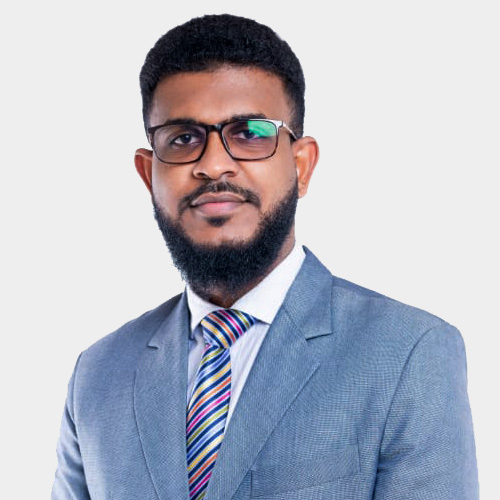
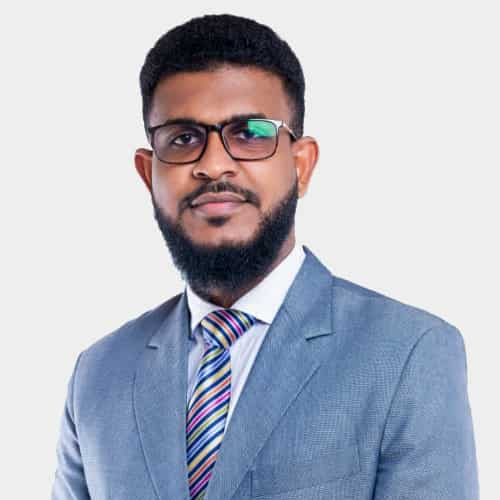
update home:reduce-image-size

diff --git a/src/views/Home.vue b/src/views/Home.vue
@@ -85,17 +85,17 @@
           </div>
           <div class="overview-images">
             <div class="col one">
-              <img src="images/stella.png" alt="" />
-              <img src="images/Susan-Mwango.jpg" alt="" />
+              <img src="images/stella.jpg" alt="" loading="lazy"/>
+              <img src="images/Susan-Mwango.jpg" alt="" loading="lazy"/>
             </div>
             <div class="col two">
-              <img src="images/brian.png" alt="" />
-              <img src="images/Mahmoud-Shalima.jpg" alt="" />
+              <img src="images/brian.jpg" alt="" />
+              <img src="images/Mahmoud-Shalima.jpg" alt="" loading="lazy" />
             </div>
           </div>
         </div>
       </section>
-      <section class="offers">
+      <!-- <section class="offers">
         <div class="offers-container container">
           <div class="offer-head">
             <h1>Advocate Signup Process</h1>
@@ -221,7 +221,7 @@
             </div>
           </div>
         </div>
-      </section>
+      </section> -->
       <section class="research-content" id="courts">
         <div class="research-container container">
           <div class="research-item">
@@ -478,7 +478,7 @@ section.banner {
   background: #e6353b;
   border-radius: 5px;
   margin: auto;
-  font-size: 24px;
+  font-size: 18px;
   color: #ffffff;
 }
 .banner-text .btn-secondary {
@@ -490,7 +490,7 @@ section.banner {
   background: #000000;
   border-radius: 5px;
   margin: auto;
-  font-size: 24px;
+  font-size: 18px;
   color: #ffffff;
 }
 
@@ -898,7 +898,7 @@ section.sponsors {
   font-family: "Montserrat";
   font-style: normal;
   font-weight: 700;
-  font-size: 24px;
+  font-size: 18px;
   line-height: 36px;
   text-align: center;
   color: #1c1b1f;
@@ -910,7 +910,7 @@ section.sponsors {
   font-style: normal;
   font-weight: 400;
   font-size: 16px;
-  line-height: 24px;
+  line-height: 18px;
   text-align: center;
   color: #1c1b1f;
   margin: 10px auto;
@@ -988,7 +988,7 @@ section.sponsors {
   font-family: "Montserrat";
   font-style: normal;
   font-weight: 700;
-  font-size: 24px;
+  font-size: 18px;
   line-height: 36px;
   color: #1c1b1f;
   margin: 10px 0px;
@@ -999,7 +999,7 @@ section.sponsors {
   font-style: normal;
   font-weight: 400;
   font-size: 16px;
-  line-height: 24px;
+  line-height: 18px;
   color: #1c1b1f;
   margin: 10px 0px;
 }
@@ -1067,7 +1067,7 @@ section.sponsors {
   font-family: "Montserrat";
   font-style: normal;
   font-weight: 700;
-  font-size: 24px;
+  font-size: 18px;
   line-height: 36px;
   color: #1c1b1f;
   margin: 10px 0px;
@@ -1150,7 +1150,7 @@ section.sponsors {
   font-family: "Montserrat";
   font-style: normal;
   font-weight: 600;
-  font-size: 24px;
+  font-size: 18px;
   line-height: 150%;
   color: #000000;
 }
@@ -1252,7 +1252,7 @@ section.single-research {
   font-family: "Montserrat";
   font-style: normal;
   font-weight: 700;
-  font-size: 24px;
+  font-size: 18px;
   line-height: 36px;
   color: #fcfcfc;
 }
@@ -1457,7 +1457,7 @@ section.filter {
   font-family: "Montserrat";
   font-style: normal;
   font-weight: 600;
-  font-size: 24px;
+  font-size: 18px;
   line-height: 29px;
   color: #1c1b1f;
 }
@@ -1552,7 +1552,7 @@ section.filter {
   font-family: "Montserrat";
   font-style: normal;
   font-weight: 700;
-  font-size: 24px;
+  font-size: 18px;
   line-height: 36px;
   color: #25518c;
 }
@@ -1753,7 +1753,7 @@ section.filter {
     font-family: "Montserrat";
     font-style: normal;
     font-weight: 700;
-    font-size: 24px;
+    font-size: 18px;
     line-height: 36px;
     color: #1c1b1f;
     margin: 10px 0px;
@@ -1798,7 +1798,7 @@ section.filter {
     font-family: "Montserrat";
     font-style: normal;
     font-weight: 700;
-    font-size: 24px;
+    font-size: 18px;
     line-height: 28px;
     color: #00000a;
     margin-top: 40px;
@@ -1913,7 +1913,7 @@ section.filter {
   }
 
   .banner-text p {
-    font-size: 24px;
+    font-size: 18px;
     line-height: 36px;
   }
 
